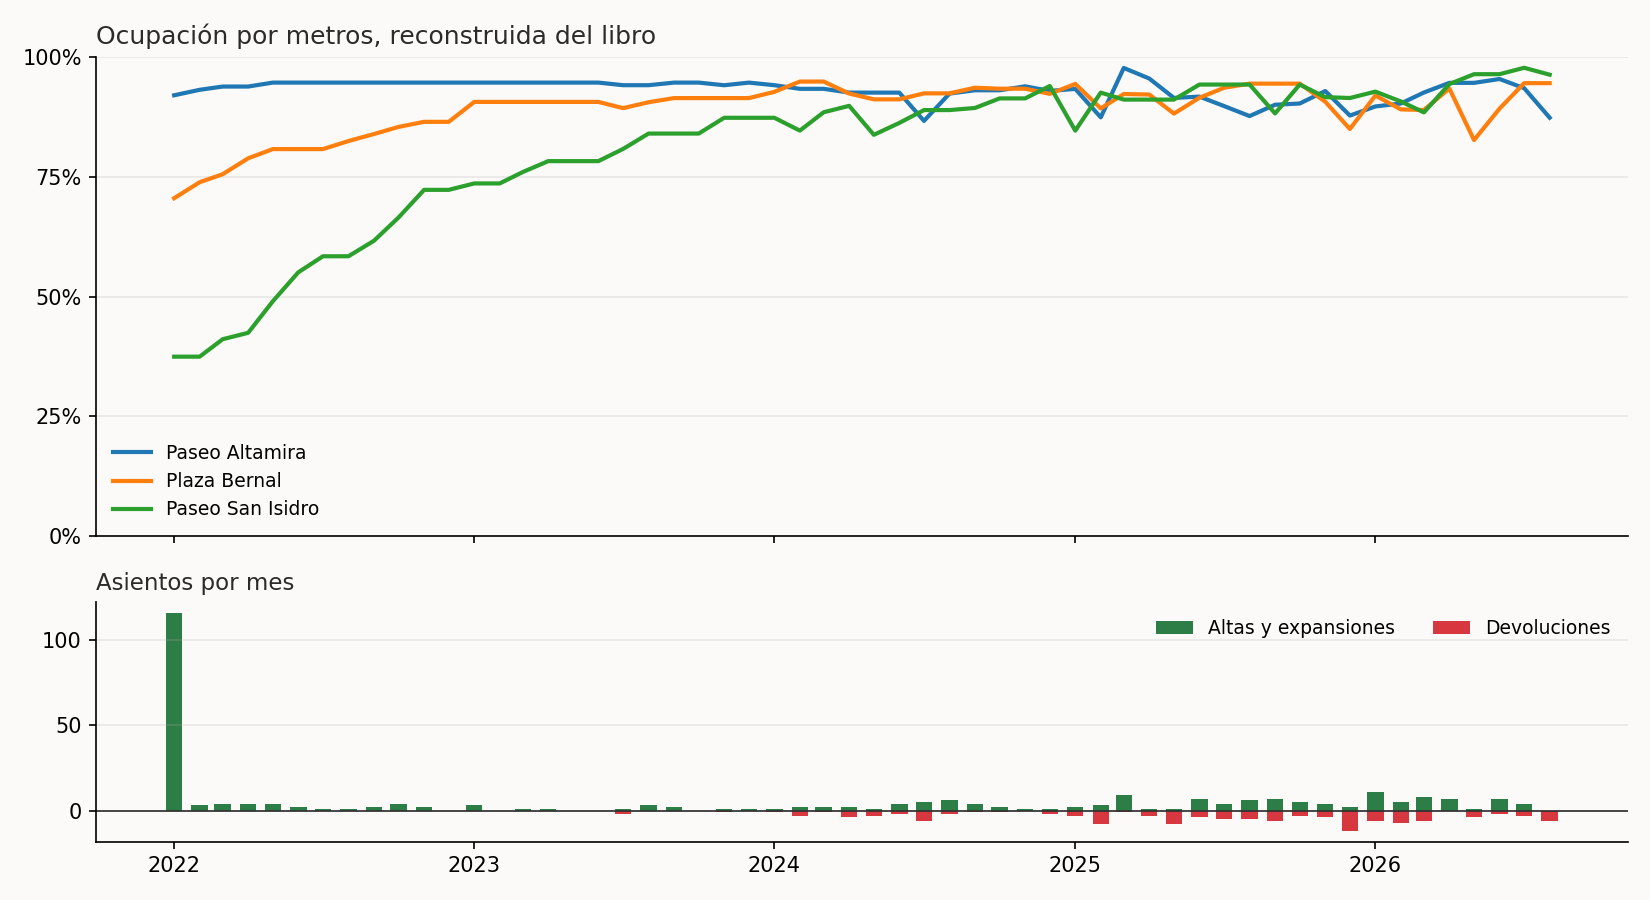
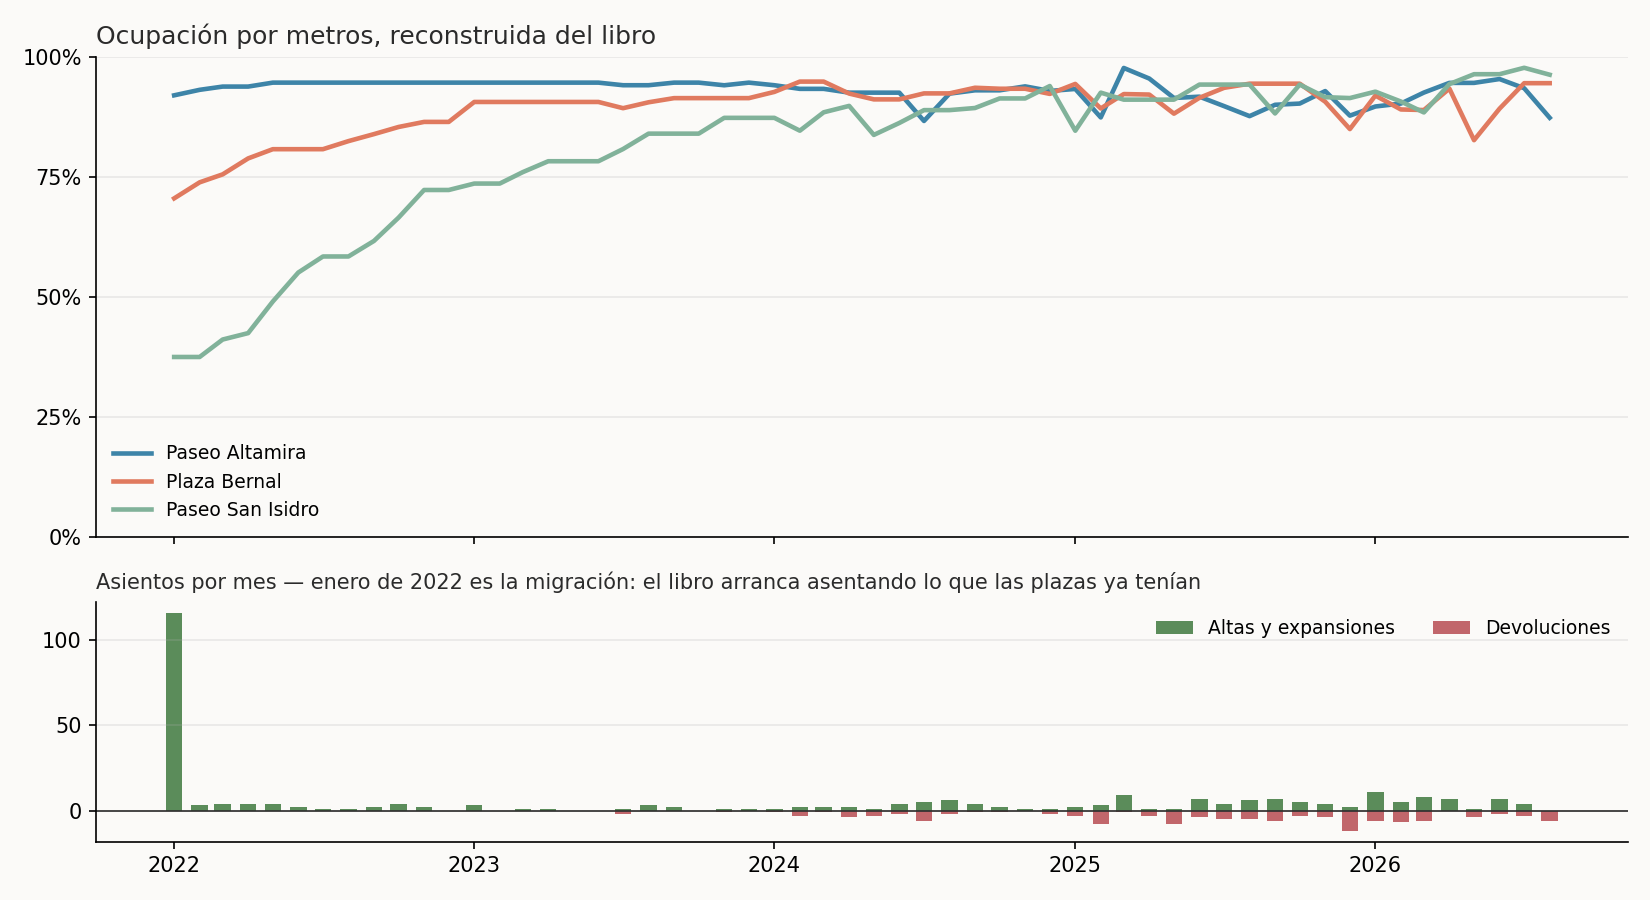
Restrain the chart palette and thicken the marks
Eleven categories on a default categorical scale is a rainbow in which no
colour means anything. They collapse into five commercial families with a
fixed warm-to-cool palette, so a family keeps its colour across centres and
across reloads.

The tenant bar chart and the mix donut are now one concatenated chart with a
single shared legend; in two Streamlit columns each drew its own copy. Bars
are 22px with padding, the donut has a real ring, and families absent from
the current centre no longer appear in the legend.

Each centre also gets a fixed colour: two of the three were rendering in
near-identical blues and the occupancy series could not be read.

53 tests, including one that fails if a new category is added to the
generator without assigning it a family.

diff --git a/app/gestor.py b/app/gestor.py
@@ -171,38 +171,59 @@ with tab_plano:
     if inq.empty:
         st.info("Ningún inquilino en esta plaza a esta fecha.")
     else:
-        izq, der = st.columns([3, 2])
+        inq = inq.assign(
+            giro=inq["cliente"].map(MARCA_GIRO).fillna(""),
+            familia=inq["cliente"].map(MARCA_GIRO).map(ocupacion.familia))
+        top = inq.head(12)
 
-        top = inq.head(12).copy()
-        top["giro"] = top["cliente"].map(MARCA_GIRO).fillna("Otro")
-        izq.altair_chart(
-            alt.Chart(top).mark_bar().encode(
-                x=alt.X("m2_ocupados:Q", title="m² ocupados"),
-                y=alt.Y("cliente:N", sort="-x", title=None),
-                color=alt.Color("giro:N", title="Giro",
-                                legend=alt.Legend(orient="bottom", columns=3)),
-                tooltip=[alt.Tooltip("cliente:N", title="Cliente"),
-                         alt.Tooltip("giro:N", title="Giro"),
-                         alt.Tooltip("m2_ocupados:Q", title="m²", format=",.0f"),
-                         alt.Tooltip("n_locales:Q", title="Locales"),
-                         alt.Tooltip("locales:N", title="Cuáles")],
-            ).properties(height=320, title="Los 12 mayores, por metros"),
-            width="stretch")
+        # Las dos gráficas van en una sola, concatenadas, para que compartan
+        # **una** leyenda. En dos columnas de Streamlit cada una dibuja la
+        # suya y el lector ve la misma leyenda dos veces.
+        dominio, rango = ocupacion.escala_familias(inq["familia"])
+        color = alt.Color(
+            "familia:N", title="Familia comercial",
+            scale=alt.Scale(domain=dominio, range=rango),
+            legend=alt.Legend(orient="bottom", columns=3, labelLimit=220,
+                              symbolType="square", symbolSize=140))
+        altura = 30 * len(top) + 30
 
-        # La mezcla de giros es la pregunta comercial de fondo: una plaza que
-        # es 60% comida no es la misma que una que es 60% moda, aunque las dos
-        # estén al 90% de ocupación.
-        mezcla = (inq.assign(giro=inq["cliente"].map(MARCA_GIRO).fillna("Otro"))
-                  .groupby("giro", as_index=False)["m2_ocupados"].sum())
-        der.altair_chart(
-            alt.Chart(mezcla).mark_arc(innerRadius=55).encode(
-                theta=alt.Theta("m2_ocupados:Q"),
-                color=alt.Color("giro:N", title="Giro",
-                                legend=alt.Legend(orient="bottom", columns=2)),
-                tooltip=[alt.Tooltip("giro:N", title="Giro"),
-                         alt.Tooltip("m2_ocupados:Q", title="m²", format=",.0f")],
-            ).properties(height=320, title="Mezcla comercial, por metros"),
-            width="stretch")
+        barras = alt.Chart(top).mark_bar(
+            size=22, cornerRadiusEnd=3
+        ).encode(
+            x=alt.X("m2_ocupados:Q", title="m² ocupados"),
+            y=alt.Y("cliente:N", sort="-x", title=None,
+                    scale=alt.Scale(paddingInner=0.25)),
+            color=color,
+            tooltip=[alt.Tooltip("cliente:N", title="Cliente"),
+                     alt.Tooltip("giro:N", title="Giro"),
+                     alt.Tooltip("m2_ocupados:Q", title="m²", format=",.0f"),
+                     alt.Tooltip("n_locales:Q", title="Locales"),
+                     alt.Tooltip("locales:N", title="Cuáles")],
+        ).properties(width=520, height=altura,
+                     title="Los 12 mayores inquilinos, por metros")
+
+        # La mezcla comercial es la pregunta de fondo: una plaza que es 60%
+        # comida no es la misma que una 60% moda, aunque las dos estén al 90%
+        # de ocupación.
+        mezcla = inq.groupby("familia", as_index=False)["m2_ocupados"].sum()
+        mezcla["parte"] = mezcla["m2_ocupados"] / mezcla["m2_ocupados"].sum()
+        dona = alt.Chart(mezcla).mark_arc(
+            innerRadius=64, outerRadius=122, stroke="#00000040", strokeWidth=1.5
+        ).encode(
+            theta=alt.Theta("m2_ocupados:Q", stack=True),
+            color=color,
+            order=alt.Order("m2_ocupados:Q", sort="descending"),
+            tooltip=[alt.Tooltip("familia:N", title="Familia"),
+                     alt.Tooltip("m2_ocupados:Q", title="m²", format=",.0f"),
+                     alt.Tooltip("parte:Q", title="Del total", format=".1%")],
+        ).properties(width=300, height=altura,
+                     title="Mezcla comercial, por metros")
+
+        st.altair_chart(
+            alt.hconcat(barras, dona, spacing=40)
+            .resolve_scale(color="shared")
+            .configure_view(strokeWidth=0),
+            width="content")
 
         st.dataframe(
             inq.rename(columns={
@@ -385,19 +406,26 @@ with tab_baja:
 with tab_hist:
     st.subheader("Ocupación en el tiempo")
     serie = ocupacion.serie_ocupacion(cat, libro)
+    serie["centro"] = serie["plaza"].map(nombre_plaza)
+    orden = [nombre_plaza(c) for c in ocupacion.COLOR_PLAZA]
     st.altair_chart(
-        alt.Chart(serie).mark_line(point=False, strokeWidth=2).encode(
+        alt.Chart(serie).mark_line(strokeWidth=2.5, interpolate="monotone").encode(
             x=alt.X("fecha:T", title=None),
             y=alt.Y("ocupacion:Q", title="Ocupación",
                     axis=alt.Axis(format="%"),
                     scale=alt.Scale(domain=[0, 1])),
-            color=alt.Color("plaza:N", title="Plaza"),
+            color=alt.Color(
+                "centro:N", title=None,
+                scale=alt.Scale(domain=orden,
+                                range=list(ocupacion.COLOR_PLAZA.values())),
+                legend=alt.Legend(orient="bottom", symbolType="stroke",
+                                  symbolStrokeWidth=3)),
             tooltip=[alt.Tooltip("fecha:T", title="Mes", format="%b %Y"),
-                     alt.Tooltip("plaza:N", title="Plaza"),
+                     alt.Tooltip("centro:N", title="Plaza"),
                      alt.Tooltip("ocupacion:Q", title="Ocupación",
                                  format=".1%"),
                      alt.Tooltip("m2_ocupados:Q", title="m²", format=",.0f")],
-        ).properties(height=260),
+        ).properties(height=280),
         width="stretch")
     st.caption(
         "Esta serie no se guardó en ningún lado. Se reconstruye recorriendo el "
@@ -407,14 +435,19 @@ with tab_hist:
     rot = ocupacion.rotacion(libro).melt(
         "mes", var_name="movimiento", value_name="n")
     st.altair_chart(
-        alt.Chart(rot).mark_bar().encode(
+        alt.Chart(rot).mark_bar(size=6, cornerRadiusEnd=1).encode(
             x=alt.X("mes:T", title=None),
             y=alt.Y("n:Q", title="Asientos"),
             color=alt.Color("movimiento:N", title=None,
                             scale=alt.Scale(domain=["altas", "bajas"],
-                                            range=["#2d7d46", "#d7373f"])),
-            tooltip=["mes:T", "movimiento:N", "n:Q"],
-        ).properties(height=200),
+                                            range=["#5b8c5a", "#c1666b"]),
+                            legend=alt.Legend(orient="bottom",
+                                              symbolType="square",
+                                              symbolSize=140)),
+            tooltip=[alt.Tooltip("mes:T", title="Mes", format="%b %Y"),
+                     alt.Tooltip("movimiento:N", title="Movimiento"),
+                     alt.Tooltip("n:Q", title="Asientos")],
+        ).properties(height=220),
         width="stretch")
 
     st.subheader("Contratos")

diff --git a/tests/test_graficas.py b/tests/test_graficas.py
@@ -65,13 +65,43 @@ def test_el_plano_se_dibuja_aunque_la_plaza_este_vacia(mundo):
 def test_la_serie_de_ocupacion_se_dibuja(mundo):
     cat, libro = mundo
     serie = ocupacion.serie_ocupacion(cat, libro)
-    grafica = alt.Chart(serie).mark_line(strokeWidth=2).encode(
+    grafica = alt.Chart(serie).mark_line(
+        strokeWidth=2.5, interpolate="monotone"
+    ).encode(
         x=alt.X("fecha:T", title=None),
         y=alt.Y("ocupacion:Q", title="Ocupación", axis=alt.Axis(format="%"),
                 scale=alt.Scale(domain=[0, 1])),
-        color=alt.Color("plaza:N", title="Plaza"),
-    ).properties(height=260)
+        color=alt.Color("plaza:N", title=None, scale=alt.Scale(
+            domain=list(ocupacion.COLOR_PLAZA),
+            range=list(ocupacion.COLOR_PLAZA.values()))),
+    ).properties(height=280)
     assert _dibuja(grafica) > 1_000
+
+
+def test_cada_plaza_tiene_su_propio_color(mundo):
+    """Con la paleta por defecto dos de las tres salían en azules casi
+    iguales y la serie no se podía leer."""
+    cat, _ = mundo
+    assert set(cat["plaza"]) <= set(ocupacion.COLOR_PLAZA)
+    assert len(set(ocupacion.COLOR_PLAZA.values())) == len(ocupacion.COLOR_PLAZA)
+
+
+def test_todo_giro_pertenece_a_una_familia():
+    """Si se agrega un giro al generador y se olvida su familia, cae en
+    'Otro' en silencio y la mezcla comercial miente."""
+    from src.generar_historia import GIROS
+    sin_familia = [g for g in GIROS if g not in ocupacion.FAMILIA]
+    assert not sin_familia, f"giros sin familia: {sin_familia}"
+    assert set(ocupacion.FAMILIA.values()) == set(ocupacion.ORDEN_FAMILIAS)
+
+
+def test_la_leyenda_no_muestra_familias_ausentes(mundo):
+    cat, libro = mundo
+    inq = ocupacion.por_cliente(libro, None, cat[cat["plaza"] == "PSIS"]["id_local"])
+    familias = inq["cliente"].map(MARCA_GIRO).map(ocupacion.familia)
+    dominio, rango = ocupacion.escala_familias(familias)
+    assert set(dominio) == set(familias)
+    assert len(dominio) == len(rango)
 
 
 def test_la_rotacion_se_dibuja(mundo):
@@ -89,18 +119,31 @@ def test_la_rotacion_se_dibuja(mundo):
 def test_las_graficas_de_inquilinos_se_dibujan(mundo):
     cat, libro = mundo
     inq = ocupacion.por_cliente(libro, None, cat[cat["plaza"] == "PALT"]["id_local"])
-    inq = inq.assign(giro=inq["cliente"].map(MARCA_GIRO).fillna("Otro"))
+    inq = inq.assign(
+        familia=inq["cliente"].map(MARCA_GIRO).map(ocupacion.familia))
+    top = inq.head(12)
 
-    barras = alt.Chart(inq.head(12)).mark_bar().encode(
+    dominio, rango = ocupacion.escala_familias(inq["familia"])
+    color = alt.Color("familia:N", title="Familia comercial",
+                      scale=alt.Scale(domain=dominio, range=rango))
+    altura = 30 * len(top) + 30
+
+    barras = alt.Chart(top).mark_bar(size=22, cornerRadiusEnd=3).encode(
         x=alt.X("m2_ocupados:Q", title="m² ocupados"),
-        y=alt.Y("cliente:N", sort="-x", title=None),
-        color=alt.Color("giro:N", title="Giro"),
-    ).properties(height=320)
-    assert _dibuja(barras) > 1_000
+        y=alt.Y("cliente:N", sort="-x", title=None,
+                scale=alt.Scale(paddingInner=0.25)),
+        color=color,
+    ).properties(width=520, height=altura)
 
-    mezcla = inq.groupby("giro", as_index=False)["m2_ocupados"].sum()
-    dona = alt.Chart(mezcla).mark_arc(innerRadius=55).encode(
-        theta=alt.Theta("m2_ocupados:Q"),
-        color=alt.Color("giro:N", title="Giro"),
-    ).properties(height=320)
-    assert _dibuja(dona) > 1_000
+    mezcla = inq.groupby("familia", as_index=False)["m2_ocupados"].sum()
+    dona = alt.Chart(mezcla).mark_arc(
+        innerRadius=64, outerRadius=122, stroke="#00000040", strokeWidth=1.5
+    ).encode(
+        theta=alt.Theta("m2_ocupados:Q", stack=True),
+        color=color,
+        order=alt.Order("m2_ocupados:Q", sort="descending"),
+    ).properties(width=300, height=altura)
+
+    # Concatenadas es como las dibuja la app: una sola leyenda compartida.
+    juntas = alt.hconcat(barras, dona, spacing=40).resolve_scale(color="shared")
+    assert _dibuja(juntas) > 1_000

diff --git a/src/ocupacion.py b/src/ocupacion.py
@@ -28,6 +28,68 @@ LIBRE, PARCIAL, OCUPADO = "libre", "parcial", "ocupado"
 COLORES = {LIBRE: "#ffffff", PARCIAL: "#f0a202", OCUPADO: "#d7373f"}
 
 
+# --------------------------------------------------------------------------
+# Familias comerciales
+# --------------------------------------------------------------------------
+# Once giros son demasiados para una gráfica: con una paleta categórica por
+# defecto el resultado es un arcoíris en el que ningún color significa nada.
+# Se agrupan en cinco familias —que es como el área comercial habla del
+# tenant mix de todos modos— y se les da una paleta ordenada de cálido a frío,
+# pensada para leerse sobre fondo oscuro.
+FAMILIA = {
+    "Ancla": "Anclas y entretenimiento",
+    "Entretenimiento": "Anclas y entretenimiento",
+    "Gimnasio": "Anclas y entretenimiento",
+    "Restaurante": "Alimentos y bebidas",
+    "Comida rápida": "Alimentos y bebidas",
+    "Café y postres": "Alimentos y bebidas",
+    "Moda": "Moda",
+    "Salud y belleza": "Salud y servicios",
+    "Servicios": "Salud y servicios",
+    "Servicios financieros": "Financieros y telecom",
+    "Telecomunicaciones": "Financieros y telecom",
+}
+
+# El orden es fijo para que una familia conserve su color entre plazas y entre
+# recargas. Una leyenda que se reordena sola no se puede comparar.
+ORDEN_FAMILIAS = [
+    "Anclas y entretenimiento",
+    "Alimentos y bebidas",
+    "Moda",
+    "Salud y servicios",
+    "Financieros y telecom",
+]
+
+PALETA_FAMILIAS = ["#3d84a8", "#e07a5f", "#f2cc8f", "#81b29a", "#9a8c98"]
+
+OTRA = "Otro"
+
+# Un color por plaza, fijo. Con la paleta por defecto, dos de las tres salían
+# en tonos de azul casi iguales y la serie histórica no se podía leer.
+COLOR_PLAZA = {"PALT": "#3d84a8", "PBER": "#e07a5f", "PSIS": "#81b29a"}
+
+
+def familia(giro: str | None) -> str:
+    """La familia de un giro. Una marca escrita a mano en la demo no tiene
+    giro conocido y cae en 'Otro'."""
+    return FAMILIA.get(giro or "", OTRA)
+
+
+def escala_familias(presentes: Iterable[str] | None = None
+                    ) -> tuple[list[str], list[str]]:
+    """Dominio y rango de color, para que las gráficas los compartan.
+
+    Con `presentes` se recortan las familias que no aparecen: una leyenda con
+    entradas que no están en la gráfica hace buscar algo que no existe. El
+    orden y el color de las que sí aparecen no cambian.
+    """
+    pares = list(zip(ORDEN_FAMILIAS + [OTRA], PALETA_FAMILIAS + ["#5c5c66"]))
+    if presentes is not None:
+        hay = set(presentes)
+        pares = [(f, c) for f, c in pares if f in hay]
+    return [f for f, _ in pares], [c for _, c in pares]
+
+
 def estado(cat: pd.DataFrame, libro: Libro,
            fecha: date | None = None) -> pd.DataFrame:
     """Una fila por local, con lo que tiene encima en esa fecha.

diff --git a/scripts/generar_figuras.py b/scripts/generar_figuras.py
@@ -23,7 +23,7 @@ sys.path.insert(0, str(RAIZ))
 
 from src import ocupacion  # noqa: E402
 from src.generar_historia import generar  # noqa: E402
-from src.ocupacion import COLORES  # noqa: E402
+from src.ocupacion import COLOR_PLAZA, COLORES  # noqa: E402
 from src.plaza import (NIVELES_NOMBRE, niveles_ordenados,  # noqa: E402
                        nombre_plaza)
 
@@ -94,8 +94,8 @@ def historia(cat, libro) -> None:
         gridspec_kw={"height_ratios": [2, 1]})
 
     for plaza, g in serie.groupby("plaza"):
-        arriba.plot(g["fecha"], g["ocupacion"], linewidth=2,
-                    label=nombre_plaza(plaza))
+        arriba.plot(g["fecha"], g["ocupacion"], linewidth=2.2,
+                    color=COLOR_PLAZA[plaza], label=nombre_plaza(plaza))
     arriba.set_ylim(0, 1)
     arriba.set_yticks([0, 0.25, 0.5, 0.75, 1.0])
     arriba.set_yticklabels(["0%", "25%", "50%", "75%", "100%"])
@@ -104,12 +104,15 @@ def historia(cat, libro) -> None:
     arriba.legend(frameon=False, fontsize=9)
     arriba.grid(axis="y", alpha=0.25)
 
-    abajo.bar(rot["mes"], rot["altas"], width=20, color="#2d7d46",
+    abajo.bar(rot["mes"], rot["altas"], width=20, color="#5b8c5a",
               label="Altas y expansiones")
-    abajo.bar(rot["mes"], -rot["bajas"], width=20, color="#d7373f",
+    abajo.bar(rot["mes"], -rot["bajas"], width=20, color="#c1666b",
               label="Devoluciones")
     abajo.axhline(0, color=TINTA, linewidth=0.8)
-    abajo.set_title("Asientos por mes", fontsize=11, color=TINTA, loc="left")
+    abajo.set_title(
+        "Asientos por mes — enero de 2022 es la migración: el libro arranca "
+        "asentando lo que las plazas ya tenían",
+        fontsize=10, color=TINTA, loc="left")
     abajo.legend(frameon=False, fontsize=9, ncols=2)
     abajo.grid(axis="y", alpha=0.25)
 

diff --git a/README.md b/README.md
@@ -5,7 +5,7 @@
 > negative-square-metre entry. Occupancy is the running sum, so the history and
 > the current state cannot drift apart.
 
-![Python](https://img.shields.io/badge/Python-3.11+-3776AB) ![Streamlit](https://img.shields.io/badge/Streamlit-leasing%20app-FF4B4B) ![Altair](https://img.shields.io/badge/Altair-floor%20plan-1f77b4) ![tests](https://img.shields.io/badge/tests-50%20passing-2b6cb0)
+![Python](https://img.shields.io/badge/Python-3.11+-3776AB) ![Streamlit](https://img.shields.io/badge/Streamlit-leasing%20app-FF4B4B) ![Altair](https://img.shields.io/badge/Altair-floor%20plan-1f77b4) ![tests](https://img.shields.io/badge/tests-53%20passing-2b6cb0)
 
 > [!IMPORTANT]
 > **Rebuild of a production R/Shiny app, on synthetic data.** The original runs
@@ -234,7 +234,7 @@ python scripts/run_demo.py          # 25 assertions
 streamlit run app/gestor.py         # the app
 
 pip install -r requirements-dev.txt
-pytest -q                           # 50 tests
+pytest -q                           # 53 tests
 ```
 
 **No credentials, no database, no environment variables.** The app generates its
